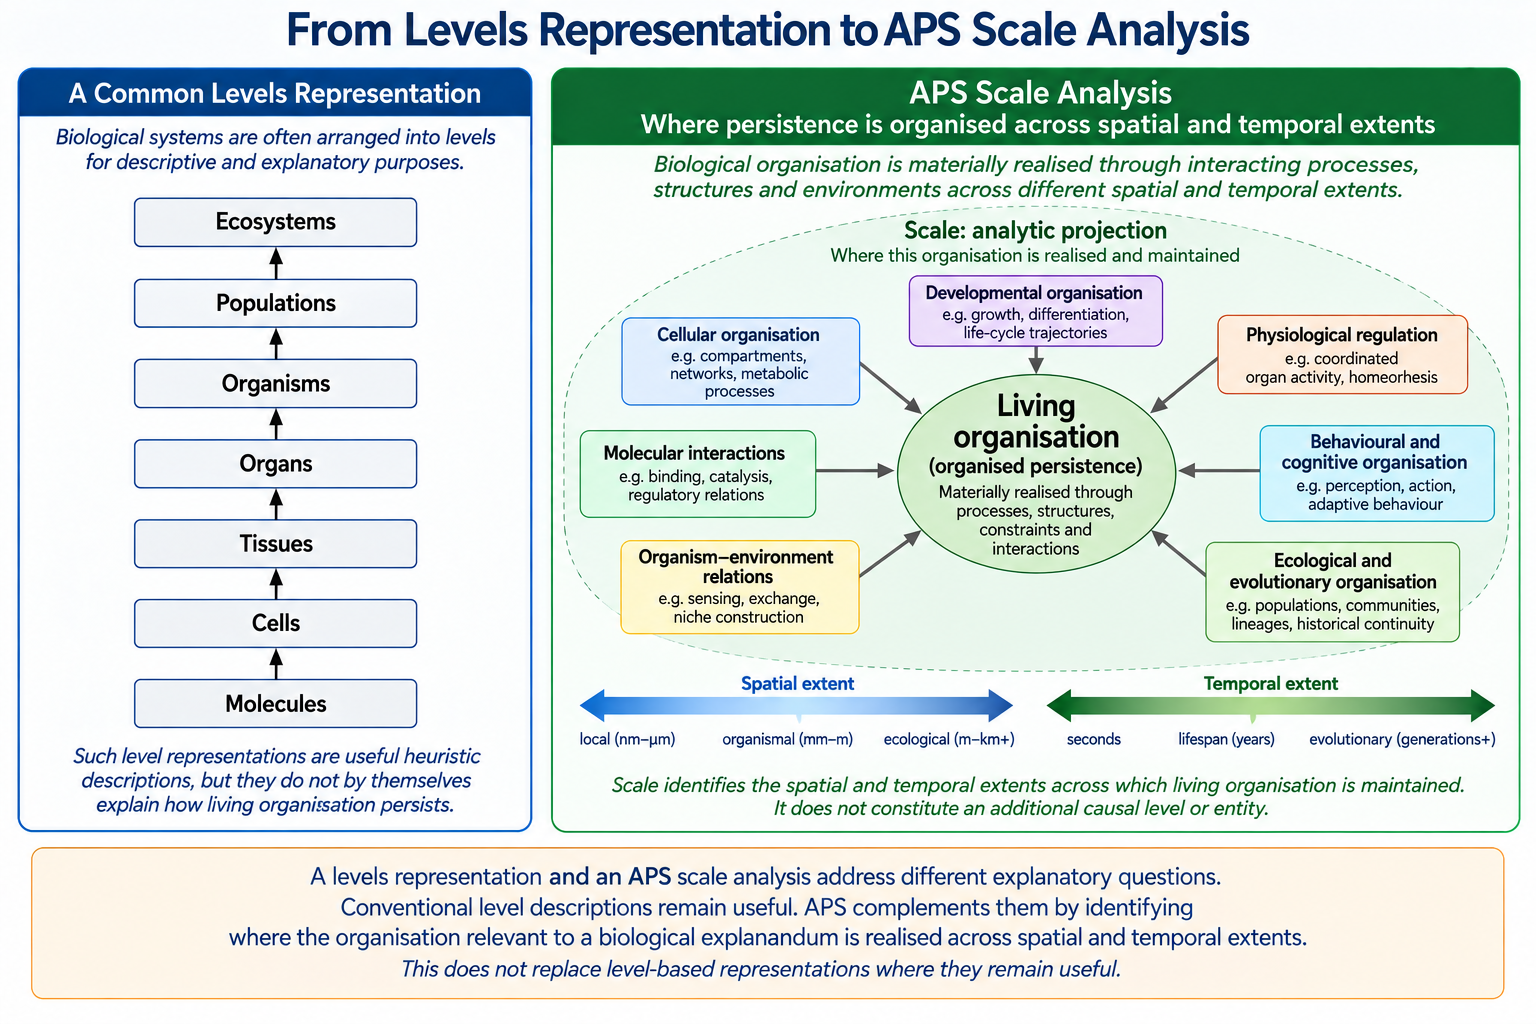
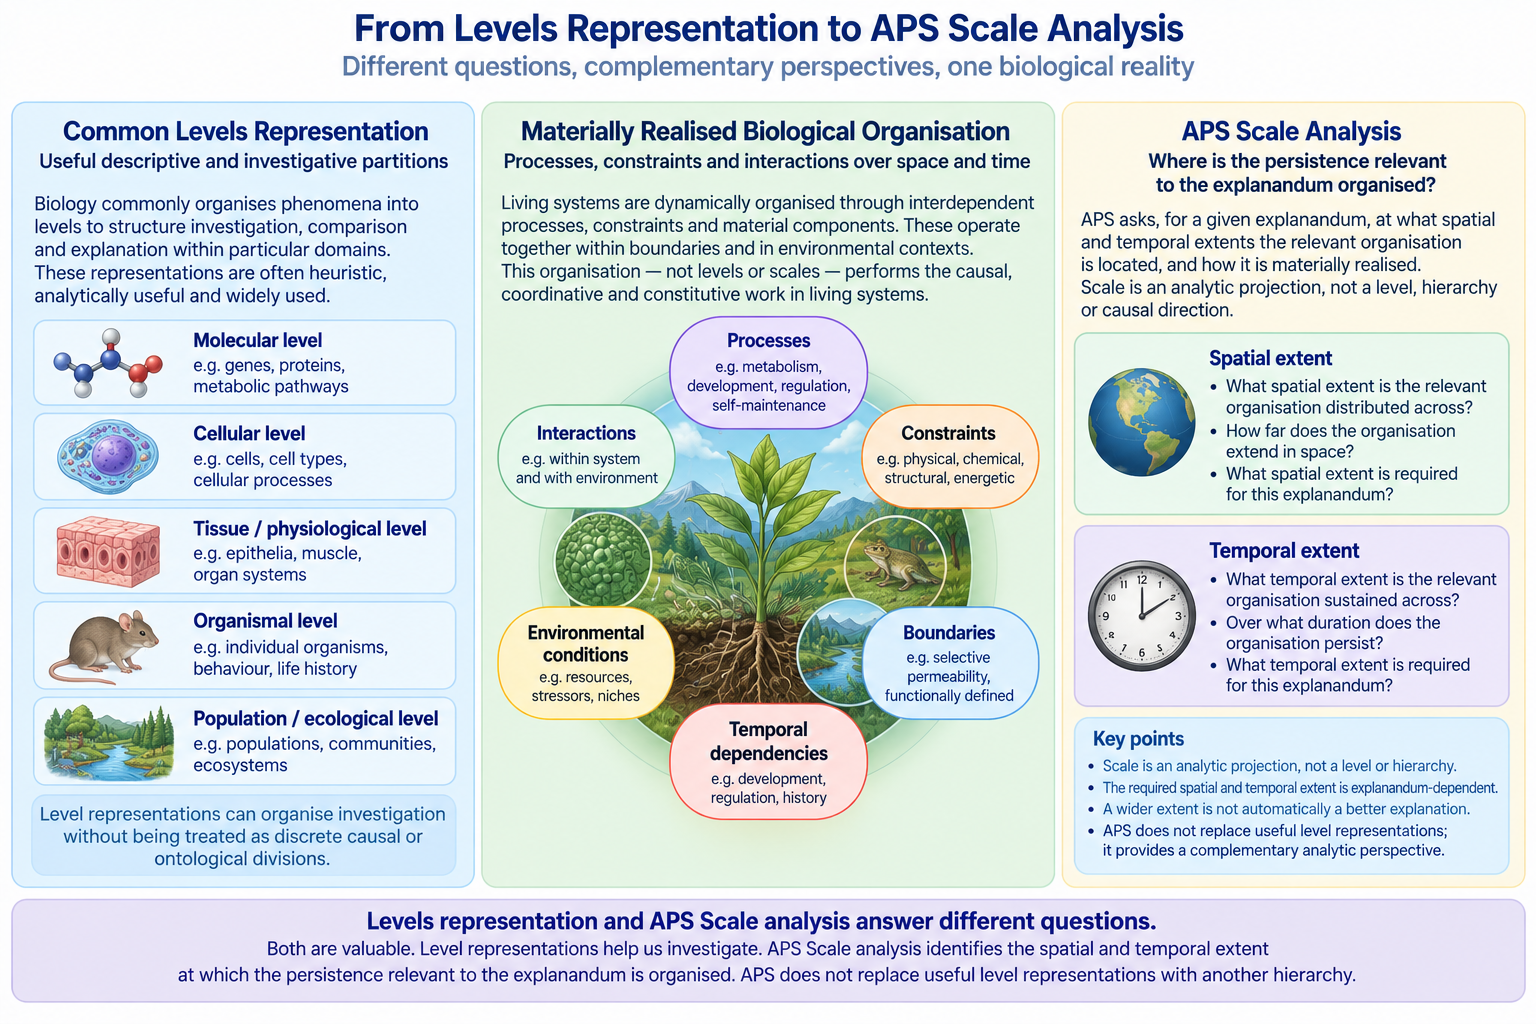
hierarchy diagram in levels

diff --git a/src/content/articles/levels-vs-scale-why-biological-organisation-is-not-hierarchical.md b/src/content/articles/levels-vs-scale-why-biological-organisation-is-not-hierarchical.md
@@ -96,66 +96,22 @@ For some explananda, a relatively restricted material organisation may be suffic
 
 This distinction is central to APS. Spatial organisation may itself be constitutive of biological organisation: position, configuration, boundaries, orientation, interaction, and other material relations can make a difference to what a biological system is able to do. Scale, by contrast, is explanatory. It identifies the spatial and temporal extent across which the organisation relevant to the explanandum must be considered.
 
-<!--
-D9G-2 DIAGRAM PRODUCTION SPECIFICATION — DO NOT IMPLEMENT YET
+<div class="aps-diagram">
 
-Replacement for:
-  /assets/diagrams/conceptual-hierarchy.png
+<a href="/assets/diagrams/conceptual-hierarchy.png" target="_blank" rel="noopener">
+  <img
+    src="/assets/diagrams/conceptual-hierarchy.png"
+    alt="Comparison of a common biological levels representation with APS Scale analysis, showing materially realised biological organisation and the spatial and temporal extents relevant to organised persistence."
+    loading="lazy"
+  />
+</a>
 
-Working title:
-  From Levels Representation to APS Scale Analysis
+<p class="aps-diagram-caption">
+  <strong>From Levels Representation to APS Scale Analysis.</strong>
+  Conventional level representations remain useful descriptive and investigative tools. APS Scale analysis asks a different question: where is the persistence relevant to a biological explanandum organised across spatial and temporal extents? Scale is an analytic projection, not an additional causal level or hierarchy.
+</p>
 
-Required conceptual architecture:
-
-LEFT:
-  Common Levels Representation
-  Molecules
-  Cells
-  Tissues / Physiology
-  Organism
-  Population / Ecology
-
-  Label:
-  Useful descriptive and investigative partitions
-
-  Explicit guardrail:
-  The representation does not by itself establish discrete causal or
-  ontological levels.
-
-CENTRE:
-  Materially Realised Biological Organisation
-
-  Representative relations:
-  processes
-  constraints
-  interactions
-  boundaries
-  environmental conditions
-  temporal dependencies
-
-  No stacked hierarchy.
-  No arrows implying top-down or bottom-up causation.
-  No "cross-scale coordination."
-
-RIGHT:
-  APS Scale Analysis
-
-  Primary question:
-  Where is the persistence relevant to the explanandum organised across
-  spatial and temporal extents?
-
-  Spatial extent bar
-  Temporal extent bar
-
-  Explicit labels:
-  Scale = analytic projection
-  Extent is explanandum-dependent
-  Wider is not automatically better
-
-BOTTOM:
-  Levels representation and APS Scale analysis answer different questions.
-  APS does not replace useful level representations with another hierarchy.
--->
+</div>
 
 [[box:scale-is-not-size]]
 
